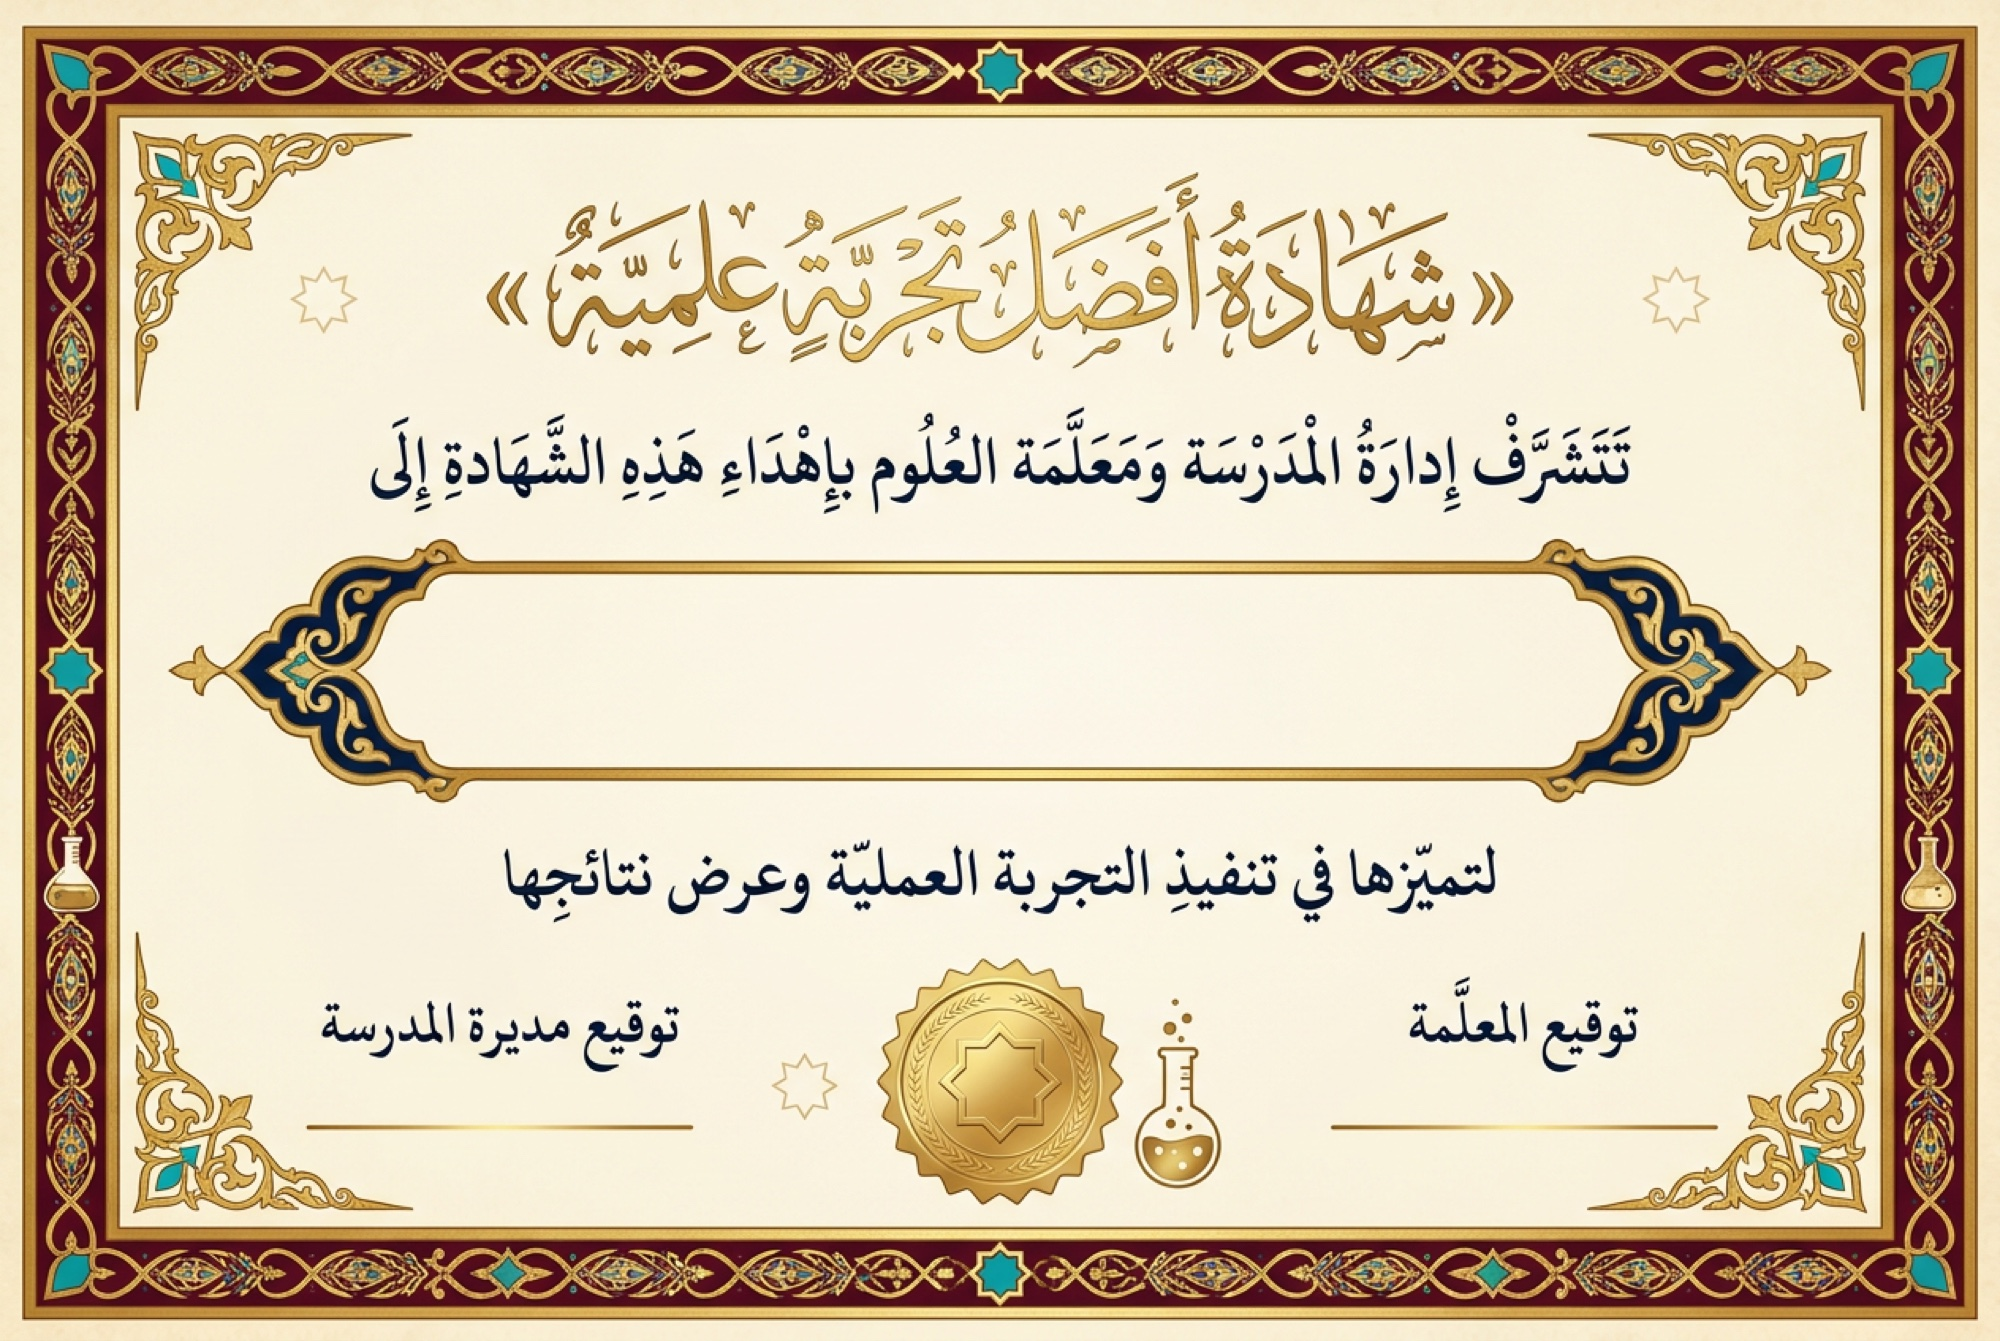
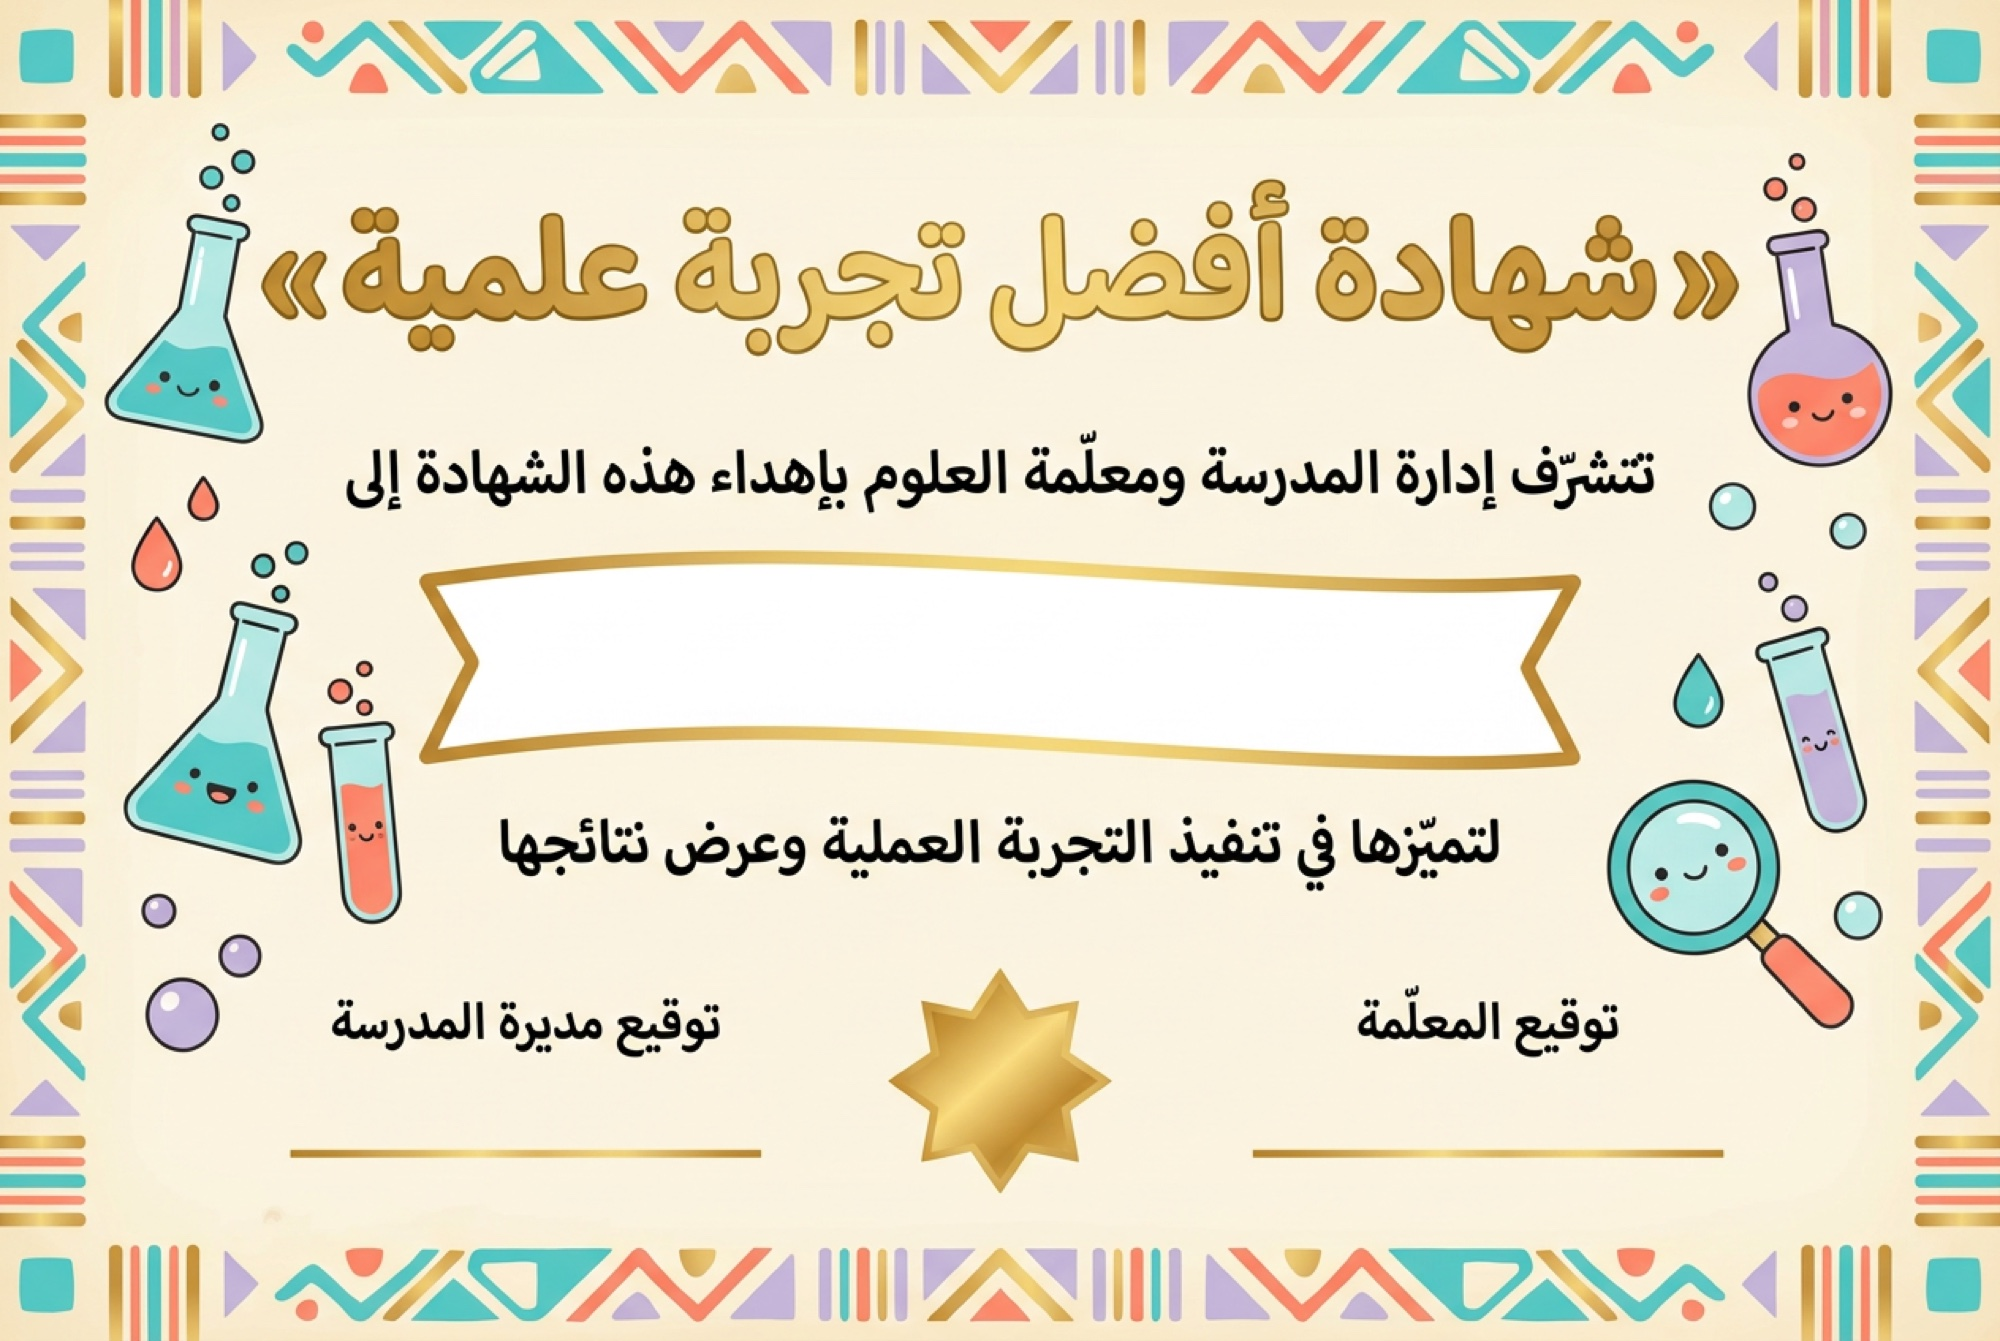
لوحات المصمم بروح بنات المدرسة ٦–١٢: كأس وصاروخ ونجوم ودوارق مبتسمة — لا جامعة بعد اليوم
أعيد توليد أربع لوحات (تفوّق: كأس وجليتر · نجمة الشهر: سماء ليلية وقمر ·
الأكثر تحسناً: صاروخ وسلم صاعد · أفضل تجربة: دوارق kawaii) بخط عربي مدوّر
مرح بدل الثلث الجامعي، والتحقق الحرفي تم على كل لوحة. «شكر ولية الأمر»
بقيت وردية راقية (المستلمة بالغة). قاعدة عبد الله سُجّلت في الذاكرة الدائمة.

diff --git a/src/lib/certificates.ts b/src/lib/certificates.ts
@@ -114,10 +114,10 @@ const MASTER_CAL_DEFAULT: MasterCal = {
   marksTop: 10.5, marksH: 7,
 };
 const MASTER_CAL: Record<string, Partial<MasterCal>> = {
-  excellence: { dateTop: 70, teacherTop: 78.5, teacherRight: 12, serialTop: 89 },
-  star_of_month: { nameTop: 44, dateTop: 67.5, teacherTop: 76, serialTop: 89 },
-  most_improved: { nameTop: 45, dateTop: 67, teacherTop: 75.5, teacherRight: 9, teacherW: 27, serialTop: 90 },
-  best_experiment: { nameTop: 43.5, nameH: 14, dateTop: 70, teacherTop: 79, serialTop: 91 },
+  excellence: { nameTop: 45, nameH: 13, dateTop: 69.5, teacherTop: 79.5, teacherRight: 11, serialTop: 91.5, marksTop: 6.5, marksH: 6.5 },
+  star_of_month: { nameTop: 49.5, nameH: 11, dateTop: 71.5, teacherTop: 78.5, serialTop: 94, marksTop: 7.5, marksH: 6.5 },
+  most_improved: { nameTop: 45, nameH: 13.5, dateTop: 66.5, teacherTop: 79, serialTop: 91.5, marksTop: 6.5, marksH: 6.5 },
+  best_experiment: { nameTop: 45, nameH: 12, dateTop: 66.5, teacherTop: 77.5, serialTop: 91, marksTop: 8, marksH: 6.5 },
   guardian_thanks: { nameTop: 44, dateTop: 67.5, teacherTop: 76, serialTop: 90 },
 };
 
